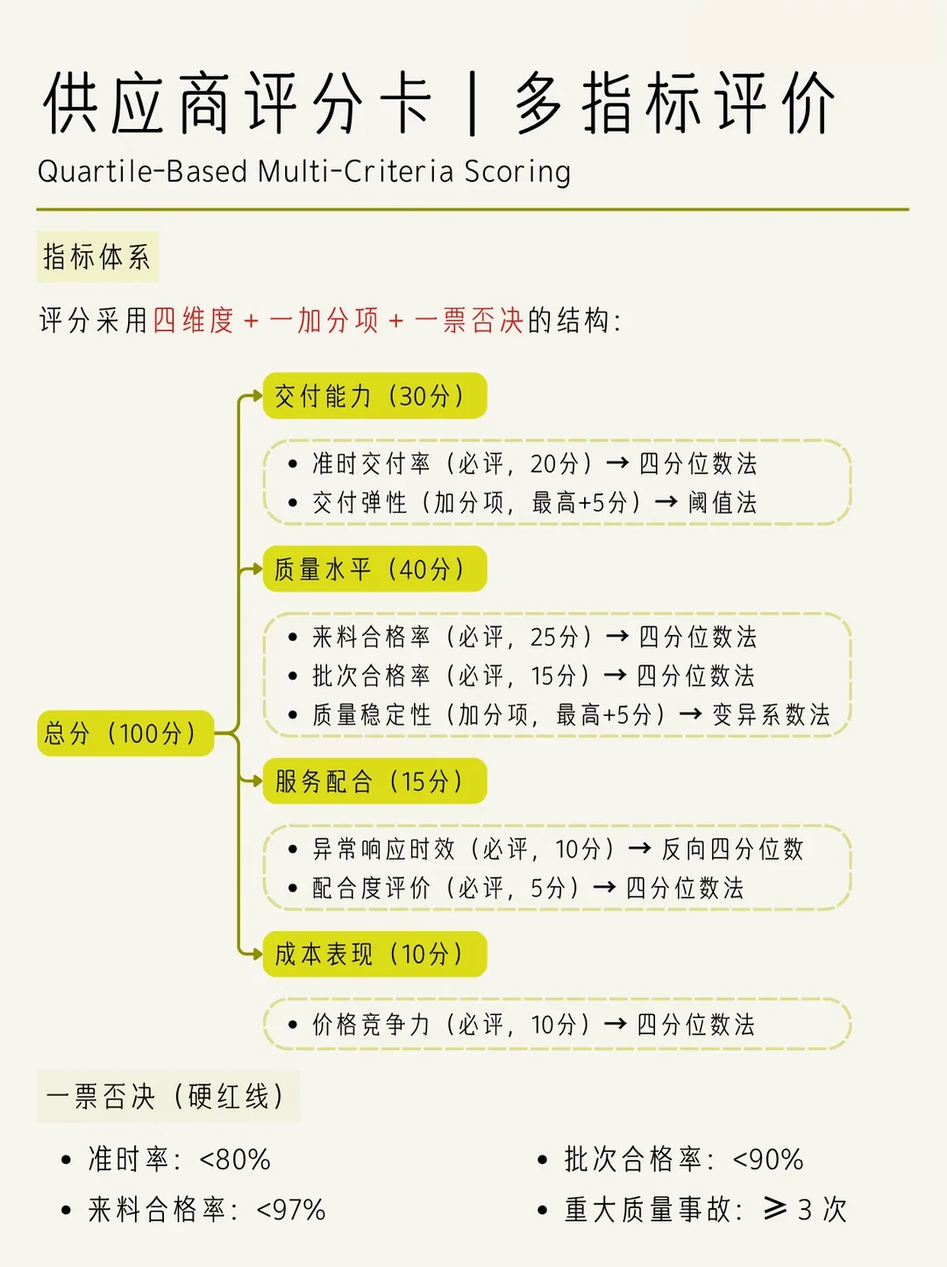
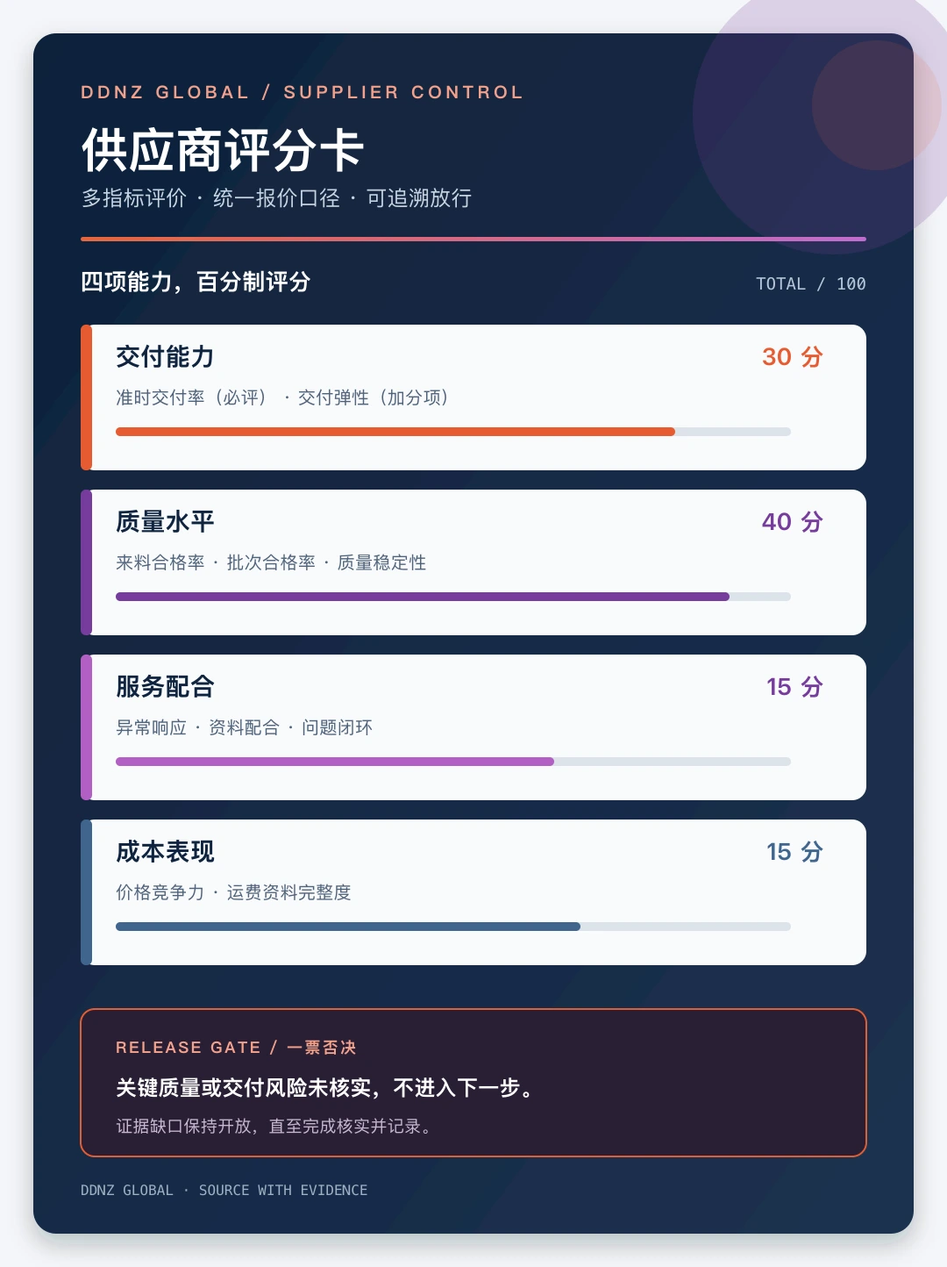
Strengthen homepage sourcing and freight bridge

diff --git a/src/components/HomeOneTeamBridge.tsx b/src/components/HomeOneTeamBridge.tsx
@@ -1,0 +1,82 @@
+import { ArrowRight, CheckCircle2, Container, PackageCheck, ShieldCheck } from 'lucide-react';
+import { Link } from 'react-router-dom';
+import { useLanguage } from '../contexts/LanguageContext';
+import type { Language } from '../i18n/translations';
+
+type BridgeCopy = {
+  eyebrow: string;
+  title: string;
+  intro: string;
+  sourcing: string;
+  sourcingBody: string;
+  freight: string;
+  freightBody: string;
+  handoff: string;
+  steps: string[];
+  proof: string;
+  proofBody: string;
+  sourcingCta: string;
+  freightCta: string;
+  serviceLabels: string[];
+};
+
+const PREFIX: Record<Language, string> = { en: '', zh: '/zh-cn', ru: '/ru', fr: '/fr', es: '/es', ar: '/ar', pt: '/pt', tr: '/tr' };
+
+const COPY: Record<Language, BridgeCopy> = {
+  en: { eyebrow: 'ONE TEAM · FROM SOURCE TO DESTINATION', title: 'Sourcing in China and freight execution, connected.', intro: 'DDNZ handles the commercial and supplier-side work. Heaven Born coordinates the international freight execution. You get one clear handoff from purchase brief to export delivery.', sourcing: 'DDNZ Global · sourcing & export coordination', sourcingBody: 'Supplier search, quotation alignment, inspection evidence, consolidation and export-ready documentation.', freight: 'Heaven Born · international freight execution', freightBody: 'FCL, LCL, dangerous goods and destination coordination with an operating history since 1997.', handoff: 'Six accountable handoffs', steps: ['Brief', 'Supplier match', 'QC evidence', 'Consolidate & load', 'HB freight execution', 'Destination handoff'], proof: 'The evidence travels with the cargo.', proofBody: 'A useful shipment record is not just a tracking number: it is the supplier decision, packing condition, loading plan and handoff evidence in one chain.', sourcingCta: 'Start a sourcing brief', freightCta: 'Explore freight services', serviceLabels: ['FCL', 'LCL', 'Dangerous goods', 'Air freight', 'FBA', 'Warehouse', 'Central Asia'] },
+  zh: { eyebrow: '一站式方案 · 从采购源头到目的地', title: 'DDNZ 采购与 HB 货运，接成一条责任链。', intro: 'DDNZ 负责采购、供应商和出口前交接；华正邦泰负责国际货运执行。您只需提交一份需求，团队会把采购、验货、集货、装柜和运输衔接起来。', sourcing: 'DDNZ Global · 采购与出口协调', sourcingBody: '供应商搜索、报价口径、验货证据、集货以及出口资料准备。', freight: 'Heaven Born · 国际货运执行', freightBody: '整柜、拼箱、危险品与目的地衔接，国际货运执行始于 1997 年。', handoff: '六个责任交接点', steps: ['需求简报', '供应商确认', '验货与资料', '集货装柜', 'HB 国际运输', '目的地衔接'], proof: '让证据和货物一起走。', proofBody: '一票货不只有轨迹号，还应有供应商决策、包装状态、装柜方案和交接记录，形成一条可复核的链路。', sourcingCta: '提交采购需求', freightCta: '查看货运服务', serviceLabels: ['整柜 FCL', '拼箱 LCL', '危险品', '空运', 'FBA', '仓储', '中亚运输'] },
+  ru: { eyebrow: 'ОДНА КОМАНДА · ОТ ИСТОЧНИКА ДО ПОЛУЧАТЕЛЯ', title: 'Закупки в Китае и перевозка — в одной цепочке.', intro: 'DDNZ ведёт поставщиков и экспортную подготовку. Heaven Born координирует международное выполнение перевозки с 1997 года.', sourcing: 'DDNZ Global · закупки и экспортная координация', sourcingBody: 'Поиск поставщиков, сверка условий, инспекция, консолидация и документы.', freight: 'Heaven Born · международная перевозка', freightBody: 'FCL, LCL, опасные грузы и передача на месте назначения.', handoff: 'Шесть точек ответственности', steps: ['Заявка', 'Поставщик', 'Контроль качества', 'Консолидация', 'Перевозка HB', 'Передача'], proof: 'Доказательства идут вместе с грузом.', proofBody: 'Решения по поставщику, упаковка, план погрузки и передача формируют единую проверяемую запись.', sourcingCta: 'Оставить заявку', freightCta: 'Смотреть перевозки', serviceLabels: ['FCL', 'LCL', 'Опасные грузы', 'Авиаперевозка', 'FBA', 'Склад', 'Центральная Азия'] },
+  fr: { eyebrow: 'UNE ÉQUIPE · DE LA SOURCE À LA DESTINATION', title: 'Sourcing en Chine et transport, enfin reliés.', intro: 'DDNZ coordonne fournisseurs et préparation export. Heaven Born exécute le transport international depuis 1997.', sourcing: 'DDNZ Global · sourcing et coordination export', sourcingBody: 'Recherche fournisseurs, alignement des offres, contrôle, consolidation et documents.', freight: 'Heaven Born · exécution du fret international', freightBody: 'FCL, LCL, marchandises dangereuses et relais à destination.', handoff: 'Six relais responsables', steps: ['Brief', 'Fournisseur', 'Contrôle qualité', 'Consolidation', 'Fret HB', 'Destination'], proof: 'Les preuves voyagent avec la marchandise.', proofBody: 'Choix fournisseur, état du colis, plan de chargement et remise restent dans une même chaîne.', sourcingCta: 'Démarrer un brief', freightCta: 'Voir les services fret', serviceLabels: ['FCL', 'LCL', 'Dangereux', 'Aérien', 'FBA', 'Entreposage', 'Asie centrale'] },
+  es: { eyebrow: 'UN EQUIPO · DEL ORIGEN AL DESTINO', title: 'Compras en China y transporte, conectados.', intro: 'DDNZ coordina proveedores y preparación de exportación. Heaven Born ejecuta el transporte internacional desde 1997.', sourcing: 'DDNZ Global · compras y coordinación de exportación', sourcingBody: 'Búsqueda de proveedores, cotización, inspección, consolidación y documentación.', freight: 'Heaven Born · ejecución del transporte internacional', freightBody: 'FCL, LCL, mercancías peligrosas y coordinación en destino.', handoff: 'Seis puntos de responsabilidad', steps: ['Solicitud', 'Proveedor', 'Control de calidad', 'Consolidación', 'Transporte HB', 'Destino'], proof: 'La evidencia viaja con la carga.', proofBody: 'La decisión de compra, el embalaje, la carga y la entrega forman una cadena verificable.', sourcingCta: 'Iniciar solicitud', freightCta: 'Ver servicios de transporte', serviceLabels: ['FCL', 'LCL', 'Peligrosas', 'Aéreo', 'FBA', 'Almacén', 'Asia Central'] },
+  ar: { eyebrow: 'فريق واحد · من المصدر إلى الوجهة', title: 'التوريد من الصين والشحن الدولي في سلسلة واحدة.', intro: 'تنسق DDNZ الموردين وتجهيز التصدير، بينما تنفذ Heaven Born الشحن الدولي منذ عام 1997.', sourcing: 'DDNZ Global · التوريد وتنسيق التصدير', sourcingBody: 'البحث عن الموردين، توحيد عروض الأسعار، الفحص، التجميع والوثائق.', freight: 'Heaven Born · تنفيذ الشحن الدولي', freightBody: 'حاويات كاملة، شحن جزئي، بضائع خطرة وتنسيق الوجهة.', handoff: 'ست نقاط مسؤولية', steps: ['الطلب', 'المورد', 'دليل الجودة', 'التجميع والتحميل', 'شحن HB', 'تسليم الوجهة'], proof: 'تسافر الأدلة مع الشحنة.', proofBody: 'قرار المورد وحالة التغليف وخطة التحميل والتسليم تشكل سلسلة واحدة قابلة للمراجعة.', sourcingCta: 'ابدأ طلب التوريد', freightCta: 'استكشف خدمات الشحن', serviceLabels: ['FCL', 'LCL', 'بضائع خطرة', 'شحن جوي', 'FBA', 'تخزين', 'آسيا الوسطى'] },
+  pt: { eyebrow: 'UMA EQUIPE · DA ORIGEM AO DESTINO', title: 'Sourcing na China e frete, ligados.', intro: 'A DDNZ coordena fornecedores e a preparação para exportação. A Heaven Born executa o frete internacional desde 1997.', sourcing: 'DDNZ Global · sourcing e coordenação de exportação', sourcingBody: 'Busca de fornecedores, alinhamento de cotações, inspeção, consolidação e documentos.', freight: 'Heaven Born · execução do frete internacional', freightBody: 'FCL, LCL, cargas perigosas e coordenação no destino.', handoff: 'Seis pontos de responsabilidade', steps: ['Brief', 'Fornecedor', 'Evidência de qualidade', 'Consolidação', 'Frete HB', 'Destino'], proof: 'A evidência acompanha a carga.', proofBody: 'Fornecedor, embalagem, carregamento e entrega ficam registrados em uma única cadeia.', sourcingCta: 'Iniciar solicitação', freightCta: 'Ver serviços de frete', serviceLabels: ['FCL', 'LCL', 'Perigosos', 'Aéreo', 'FBA', 'Armazém', 'Ásia Central'] },
+  tr: { eyebrow: 'TEK EKİP · KAYNAKTAN VARIŞA', title: 'Çin tedariki ve nakliye tek zincirde.', intro: 'DDNZ tedarikçileri ve ihracat hazırlığını koordine eder. Heaven Born, 1997’den beri uluslararası taşımayı yürütür.', sourcing: 'DDNZ Global · tedarik ve ihracat koordinasyonu', sourcingBody: 'Tedarikçi arama, teklif eşleştirme, denetim, konsolidasyon ve belgeler.', freight: 'Heaven Born · uluslararası nakliye yürütümü', freightBody: 'FCL, LCL, tehlikeli yükler ve varış koordinasyonu.', handoff: 'Altı sorumluluk noktası', steps: ['Talep', 'Tedarikçi', 'Kalite kanıtı', 'Konsolidasyon', 'HB nakliye', 'Varış'], proof: 'Kanıt yükle birlikte ilerler.', proofBody: 'Tedarikçi kararı, ambalaj, yükleme planı ve teslim tek bir doğrulanabilir zincirdedir.', sourcingCta: 'Tedarik talebi oluştur', freightCta: 'Nakliye hizmetlerini incele', serviceLabels: ['FCL', 'LCL', 'Tehlikeli yük', 'Hava kargo', 'FBA', 'Depolama', 'Orta Asya'] },
+};
+
+export default function HomeOneTeamBridge() {
+  const { language } = useLanguage();
+  const copy = COPY[language];
+  const prefix = PREFIX[language];
+  return (
+    <section id="one-team" className="home-one-team" aria-labelledby="one-team-title" dir={language === 'ar' ? 'rtl' : 'ltr'}>
+      <div className="home-one-team-inner">
+        <div className="home-one-team-heading">
+          <p className="home-one-team-eyebrow">{copy.eyebrow}</p>
+          <h2 id="one-team-title">{copy.title}</h2>
+          <p className="home-one-team-intro">{copy.intro}</p>
+        </div>
+        <div className="home-one-team-roles">
+          <article className="home-one-team-role home-one-team-role--sourcing">
+            <div className="home-one-team-role-icon"><PackageCheck aria-hidden="true" /></div>
+            <p className="home-one-team-role-label">01 · DDNZ GLOBAL</p>
+            <h3>{copy.sourcing}</h3>
+            <p>{copy.sourcingBody}</p>
+            <Link to={`${prefix}/sourcing-services/consolidation-export/`} className="home-one-team-link">{copy.sourcingCta}<ArrowRight aria-hidden="true" /></Link>
+          </article>
+          <article className="home-one-team-role home-one-team-role--freight">
+            <div className="home-one-team-role-icon"><Container aria-hidden="true" /></div>
+            <p className="home-one-team-role-label">02 · HEAVEN BORN</p>
+            <h3>{copy.freight}</h3>
+            <p>{copy.freightBody}</p>
+            <Link to={`${prefix}/services/sea-freight/`} className="home-one-team-link">{copy.freightCta}<ArrowRight aria-hidden="true" /></Link>
+          </article>
+        </div>
+        <div className="home-one-team-handoff">
+          <div className="home-one-team-handoff-heading">
+            <p className="home-one-team-eyebrow">{copy.handoff}</p>
+            <div className="home-one-team-proof"><ShieldCheck aria-hidden="true" /><span>{copy.proof}</span><small>{copy.proofBody}</small></div>
+          </div>
+          <ol className="home-one-team-steps">
+            {copy.steps.map((step, index) => <li key={step}><span>{String(index + 1).padStart(2, '0')}</span><CheckCircle2 aria-hidden="true" /><strong>{step}</strong></li>)}
+          </ol>
+        </div>
+        <div className="home-one-team-services">
+          {copy.serviceLabels.map((label, index) => {
+            const links = [`${prefix}/services/sea-freight/`, `${prefix}/services/lcl-shipping-from-china/`, `${prefix}/services/dangerous-goods-shipping-from-china/`, `${prefix}/services/air-freight/`, `${prefix}/services/amazon-fba/`, `${prefix}/services/warehouse-services/`, `${prefix}/shipping-from-china-to-central-asia/`];
+            return <Link key={label} to={links[index]}>{label}<ArrowRight aria-hidden="true" /></Link>;
+          })}
+        </div>
+      </div>
+    </section>
+  );
+}

diff --git a/src/styles/ddnz-refinement.css b/src/styles/ddnz-refinement.css
@@ -15,6 +15,9 @@
   padding: 52px 48px 36px;
 }
 .home-intro-copy { min-width: 0; }
+.home-intro-kicker { display: flex; flex-wrap: wrap; align-items: center; gap: 8px; color: #763c9c; font-size: 11px; font-weight: 850; letter-spacing: .13em; line-height: 1.4; }
+.home-intro-kicker b { color: #e75b31; font-size: 16px; font-weight: 500; }
+.home-intro-kicker em { flex-basis: 100%; color: #66758a; font-size: 10px; font-style: normal; font-weight: 650; letter-spacing: .16em; }
 .home-intro h1 {
   max-width: 12ch;
   font-size: clamp(44px,4.6vw,66px);
@@ -55,6 +58,40 @@
 .home-brief-destination { display: grid; grid-template-columns: 1fr 1fr; align-items: end; gap: 16px; margin-bottom: 12px; }
 .home-brief-destination select { min-height: 48px; font-size: 16px; }
 
+.home-one-team { position: relative; overflow: hidden; border-block: 1px solid #dfe4eb; background: #11243c; color: #fff; }
+.home-one-team::before { content: ''; position: absolute; inset: 0; pointer-events: none; background: linear-gradient(115deg, rgba(118,60,156,.23), transparent 42%), radial-gradient(circle at 90% 12%, rgba(231,91,49,.22), transparent 27%); }
+.home-one-team-inner { position: relative; max-width: 1344px; margin-inline: auto; padding: clamp(56px,7vw,100px) 48px 62px; }
+.home-one-team-heading { display: grid; grid-template-columns: .7fr 1.3fr; gap: 36px; align-items: end; }
+.home-one-team-eyebrow { color: #deb6ed; font-size: 12px; font-weight: 800; letter-spacing: .16em; text-transform: uppercase; }
+.home-one-team-heading h2 { max-width: 16ch; font-size: clamp(36px,5vw,68px); font-weight: 750; letter-spacing: -.045em; line-height: 1.02; }
+.home-one-team-intro { max-width: 47ch; color: #d2dbe8; font-size: 17px; line-height: 1.7; }
+.home-one-team-roles { display: grid; grid-template-columns: 1fr 1fr; gap: 1px; margin-top: 54px; border: 1px solid #53637a; background: #53637a; }
+.home-one-team-role { min-height: 290px; padding: 30px; background: #172d48; }
+.home-one-team-role--freight { background: #1e2637; }
+.home-one-team-role-icon { display: grid; place-items: center; width: 43px; height: 43px; border-radius: 50%; background: #f0d8fa; color: #572678; }
+.home-one-team-role-icon svg { width: 21px; height: 21px; }
+.home-one-team-role-label { margin-top: 26px; color: #f5a28a; font-size: 11px; font-weight: 800; letter-spacing: .14em; }
+.home-one-team-role h3 { max-width: 25ch; margin-top: 9px; font-size: clamp(21px,2.2vw,30px); line-height: 1.16; }
+.home-one-team-role>p:not(.home-one-team-role-label) { max-width: 47ch; margin-top: 12px; color: #c2cede; font-size: 14px; line-height: 1.7; }
+.home-one-team-link { display: inline-flex; align-items: center; gap: 8px; margin-top: 22px; color: #fff; font-size: 14px; font-weight: 700; }
+.home-one-team-link svg, .home-one-team-services svg { width: 16px; height: 16px; transition: transform .2s ease; }
+.home-one-team-link:hover svg, .home-one-team-services a:hover svg { transform: translateX(3px); }
+.home-one-team-handoff { display: grid; grid-template-columns: .65fr 1.35fr; gap: 45px; align-items: start; padding-top: 54px; }
+.home-one-team-proof { margin-top: 28px; padding: 18px; border-inline-start: 2px solid #e75b31; background: #182b44; }
+.home-one-team-proof svg { width: 20px; color: #ef9b83; vertical-align: middle; }
+.home-one-team-proof span { margin-inline-start: 9px; font-weight: 700; }
+.home-one-team-proof small { display: block; margin-top: 9px; color: #b8c7d9; font-size: 12px; line-height: 1.65; }
+.home-one-team-steps { display: grid; grid-template-columns: repeat(3, 1fr); gap: 1px; margin: 0; padding: 0; list-style: none; background: #53637a; border: 1px solid #53637a; }
+.home-one-team-steps li { min-height: 108px; padding: 18px; background: #172d48; }
+.home-one-team-steps li>span { display: block; color: #f5a28a; font-size: 11px; font-weight: 800; letter-spacing: .12em; }
+.home-one-team-steps svg { width: 16px; margin-top: 17px; color: #cba1de; vertical-align: middle; }
+.home-one-team-steps strong { margin-inline-start: 7px; font-size: 14px; line-height: 1.35; }
+.home-one-team-services { display: flex; flex-wrap: wrap; gap: 9px; margin-top: 48px; padding-top: 20px; border-top: 1px solid #53637a; }
+.home-one-team-services a { display: inline-flex; align-items: center; gap: 7px; min-height: 38px; padding: 0 13px; border: 1px solid #5e718c; border-radius: 999px; color: #e7edf5; font-size: 12px; font-weight: 650; transition: border-color .2s ease, background .2s ease; }
+.home-one-team-services a:hover { border-color: #e9b1f5; background: #2a4260; }
+@media (max-width: 900px) { .home-one-team-heading, .home-one-team-handoff { grid-template-columns: 1fr; gap: 20px; } .home-one-team-heading h2 { max-width: 20ch; } }
+@media (max-width: 640px) { .home-one-team-inner { padding: 52px 20px 46px; } .home-one-team-roles { grid-template-columns: 1fr; margin-top: 38px; } .home-one-team-role { min-height: 0; padding: 24px; } .home-one-team-handoff { padding-top: 40px; } .home-one-team-steps { grid-template-columns: repeat(2, 1fr); } .home-one-team-steps li { min-height: 92px; padding: 14px; } .home-one-team-steps strong { font-size: 12px; } .home-one-team-services { margin-top: 36px; } }
+
 /* Keep the production footage close to its introduction without touching the planner. */
 .phone-film #view-videos .page-heading { margin-top: 32px; margin-bottom: 20px; }
 .phone-film #view-videos h1 { font-size: clamp(32px,3.3vw,46px); max-width: 28ch; text-wrap: balance; }
@@ -82,6 +119,7 @@
   .home-intro-grid { grid-template-columns: 1fr; gap: 26px; padding: 30px 20px 24px; }
   .home-intro h1 { font-size: clamp(38px,9.8vw,52px); max-width: 15ch; }
   .home-intro-summary { margin-top: 16px; font-size: 17px; line-height: 1.55; }
+  .home-intro-kicker { font-size: 10px; }
   .home-intro-actions { display: grid; grid-template-columns: minmax(0,1.2fr) minmax(0,1fr); margin-top: 22px; gap: 10px; }
   .home-intro-actions .ddnz-button { gap: 8px; padding: 12px 10px; font-size: 13px; line-height: 1.4; }
   .home-intro-photo img { aspect-ratio: 1.8; object-position: center 6%; }

diff --git a/src/components/SourcingHomepageHero.tsx b/src/components/SourcingHomepageHero.tsx
@@ -121,14 +121,14 @@ const destinationLabels: Record<Language, Record<string, string>> = {
 };
 
 const HERO_INTRO: Record<Language, { headline: string; body: string; caption: string; imageAlt: string }> = {
-  en: { headline: 'Your China sourcing team.', body: 'Find suppliers, check products and coordinate export with one team on the ground.', caption: 'DDNZ · Your China sourcing team', imageAlt: 'DDNZ · Your China sourcing team' },
-  zh: { headline: '在中国采购，让每一步有人负责。', body: '从寻找供应商、核对产品到集货出口，由中国团队衔接。', caption: 'DDNZ · 您的中国采购团队', imageAlt: 'DDNZ · 您的中国采购团队' },
-  ru: { headline: 'Ваша команда по закупкам в Китае.', body: 'Поиск поставщиков, проверка товаров и координация экспорта с одной командой на месте.', caption: 'DDNZ · Ваша команда в Китае', imageAlt: 'DDNZ · Ваша команда в Китае' },
-  fr: { headline: 'Votre équipe sourcing en Chine.', body: 'Trouvez des fournisseurs, contrôlez les produits et coordonnez l’export avec une équipe sur place.', caption: 'DDNZ · Votre équipe en Chine', imageAlt: 'DDNZ · Votre équipe en Chine' },
-  es: { headline: 'Su equipo de compras en China.', body: 'Encuentre proveedores, revise productos y coordine la exportación con un equipo en origen.', caption: 'DDNZ · Su equipo en China', imageAlt: 'DDNZ · Su equipo en China' },
-  ar: { headline: 'فريقك للتوريد من الصين.', body: 'اعثر على الموردين وافحص المنتجات ونسّق التصدير مع فريق واحد على أرض الواقع.', caption: 'DDNZ · فريقك في الصين', imageAlt: 'DDNZ · فريقك في الصين' },
-  pt: { headline: 'Sua equipe de compras na China.', body: 'Encontre fornecedores, confira produtos e coordene a exportação com uma equipe no local.', caption: 'DDNZ · Sua equipe na China', imageAlt: 'DDNZ · Sua equipe na China' },
-  tr: { headline: 'Çin’deki tedarik ekibiniz.', body: 'Sahadaki tek bir ekiple tedarikçi bulun, ürünleri kontrol edin ve ihracatı koordine edin.', caption: 'DDNZ · Çin’deki ekibiniz', imageAlt: 'DDNZ · Çin’deki ekibiniz' },
+  en: { headline: 'Source in China. Ship with one accountable team.', body: 'DDNZ coordinates suppliers, product checks and export preparation; Heaven Born connects the international freight execution since 1997.', caption: 'DDNZ + Heaven Born · From source to destination', imageAlt: 'DDNZ and Heaven Born teams connecting sourcing and international freight' },
+  zh: { headline: '中国采购，到目的地交付，一套团队负责到底。', body: 'DDNZ 负责供应商、验货和出口前准备；华正邦泰衔接国际货运执行，始于 1997 年。', caption: 'DDNZ + 华正邦泰 · 从采购源头到目的地', imageAlt: 'DDNZ 与华正邦泰衔接中国采购和国际货运' },
+  ru: { headline: 'Закупки в Китае. Доставка с одной ответственной командой.', body: 'DDNZ координирует поставщиков и экспортную подготовку; Heaven Born выполняет международную перевозку с 1997 года.', caption: 'DDNZ + Heaven Born · От источника до получателя', imageAlt: 'Команды DDNZ и Heaven Born соединяют закупки и международную перевозку' },
+  fr: { headline: 'Sourcer en Chine. Expédier avec une seule équipe responsable.', body: 'DDNZ coordonne les fournisseurs et la préparation export ; Heaven Born assure le fret international depuis 1997.', caption: 'DDNZ + Heaven Born · De la source à la destination', imageAlt: 'Les équipes DDNZ et Heaven Born relient sourcing et fret international' },
+  es: { headline: 'Compre en China. Envíe con un solo equipo responsable.', body: 'DDNZ coordina proveedores y preparación de exportación; Heaven Born ejecuta el transporte internacional desde 1997.', caption: 'DDNZ + Heaven Born · Del origen al destino', imageAlt: 'Los equipos DDNZ y Heaven Born conectan compras y transporte internacional' },
+  ar: { headline: 'توريد من الصين. شحن دولي مع فريق واحد مسؤول.', body: 'تنسق DDNZ الموردين وتجهيز التصدير، بينما تنفذ Heaven Born الشحن الدولي منذ عام 1997.', caption: 'DDNZ + Heaven Born · من المصدر إلى الوجهة', imageAlt: 'فريقا DDNZ وHeaven Born يربطان التوريد والشحن الدولي' },
+  pt: { headline: 'Compre na China. Envie com uma equipe responsável.', body: 'A DDNZ coordena fornecedores e a preparação para exportação; a Heaven Born executa o frete internacional desde 1997.', caption: 'DDNZ + Heaven Born · Da origem ao destino', imageAlt: 'As equipes DDNZ e Heaven Born conectam sourcing e frete internacional' },
+  tr: { headline: 'Çin’den tedarik edin. Tek sorumlu ekiple gönderin.', body: 'DDNZ tedarikçileri ve ihracat hazırlığını koordine eder; Heaven Born, 1997’den beri uluslararası taşımayı yürütür.', caption: 'DDNZ + Heaven Born · Kaynaktan varışa', imageAlt: 'DDNZ ve Heaven Born ekipleri tedarik ile uluslararası taşımayı birleştiriyor' },
 };
 
 const categoryImageAlts: Record<Language, [string, string, string, string]> = {
@@ -236,6 +236,7 @@ export default function SourcingHomepageHero() {
       <section className="ddnz-ribbon-home-hero home-intro" aria-labelledby="homepage-sourcing-title">
         <div className="home-intro-grid">
           <div className="home-intro-copy">
+            <p className="home-intro-kicker"><span>DDNZ GLOBAL</span><b>×</b><span>HEAVEN BORN</span><em>SOURCING + INTERNATIONAL FREIGHT</em></p>
             <h1 id="homepage-sourcing-title">{intro.headline}</h1>
             <p className="home-intro-summary">{intro.body}</p>
             <div className="home-intro-actions">

diff --git a/src/pages/Home.tsx b/src/pages/Home.tsx
@@ -1,6 +1,7 @@
 import { lazy, Suspense } from 'react';
 import SourcingHomepageNav from '../components/SourcingHomepageNav';
 import SourcingHomepageHero from '../components/SourcingHomepageHero';
+import HomeOneTeamBridge from '../components/HomeOneTeamBridge';
 import SEO from '../components/SEO';
 import SchemaMarkup from '../components/SchemaMarkup';
 import { useLanguage } from '../contexts/LanguageContext';
@@ -67,6 +68,7 @@ export default function Home() {
       <SourcingHomepageNav />
       <main>
         <SourcingHomepageHero />
+        <HomeOneTeamBridge />
         <Suspense fallback={<HomeSectionFallback language={language} />}>
           <HomeV2Preview
             embedded
